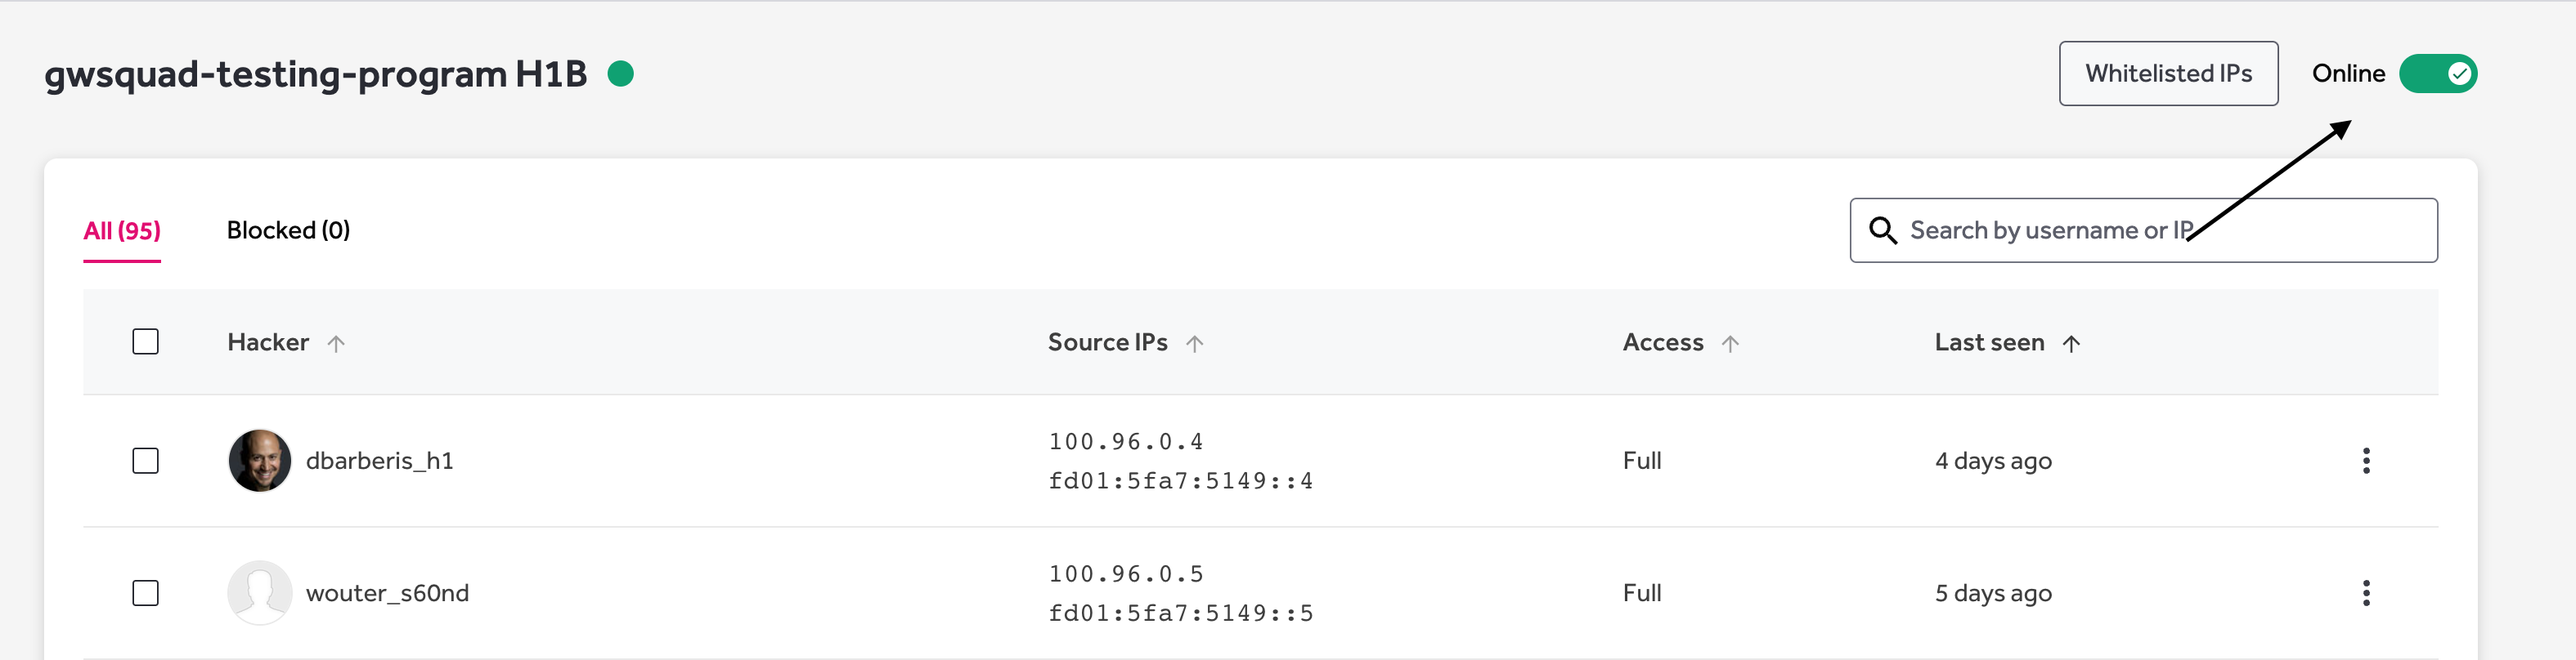
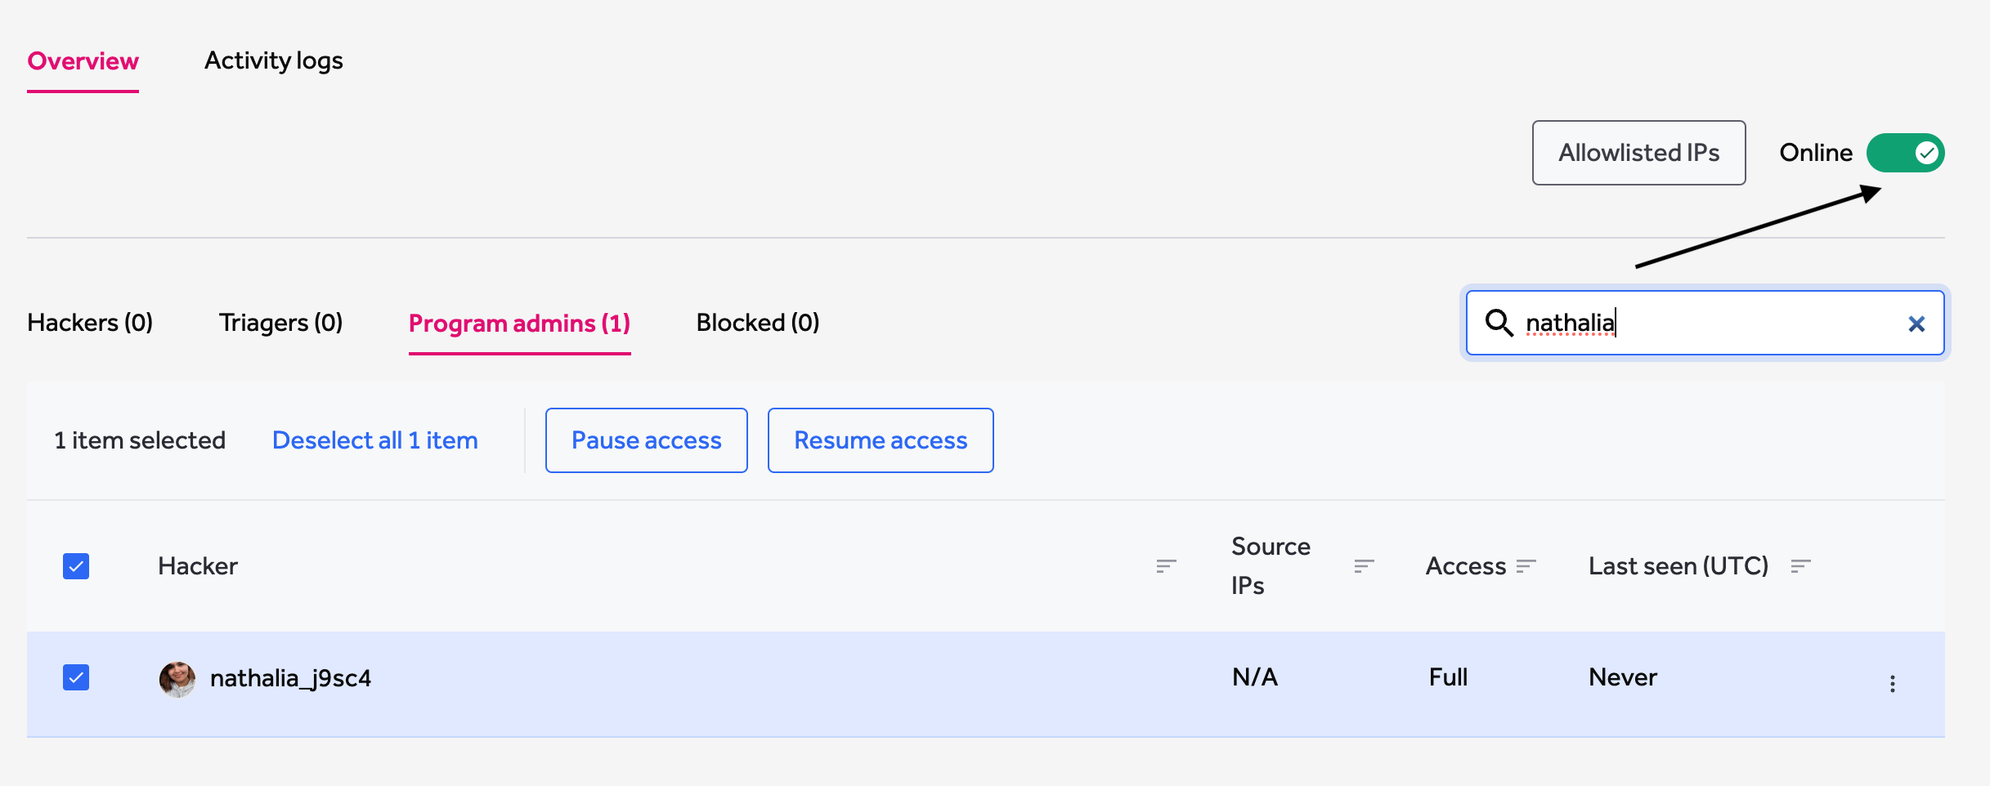
Updated documentation for HackerOne Gateway V2.

diff --git a/docs/organizations/hackerone-vpn.md b/docs/organizations/hackerone-vpn.md
@@ -17,9 +17,9 @@ The HackerOne Gateway (VPN) enables access to public and firewalled assets as we
 
 ![gateway_access_toggle](./images/gateway-3.png)
 
-### Whitelisted IPs
+### Allowlisted IPs
 
-1. To view a list of the Whitelisted IPs provided by HackerOne Gateway, click on the **Whitelisted IPs** button in the top right corner of the page.
+1. To view a list of the Allowlisted IPs provided by HackerOne Gateway, click on the **Whitelisted IPs** button in the top right corner of the page.
 
 ![gateway_whitelisted_ips](./images/gateway-4.png)
 
@@ -46,7 +46,7 @@ You can pause or resume access of individual hackers by:
 The activity logs show what actions are being performed by Hackers while on the Gateway solution. It is possible to customize the results by using the filters available, such as **Date**, **Month**, **Year** and **start-end** time, or by using the search box.
 Please note that it can take up to 20 minutes to display the latest activity logs. 
 
-![gateway_activity_logs](./images/gateway-6.png)
+![gateway_activity_logs](./images/gateway-7.png)
 
 
 
